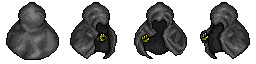
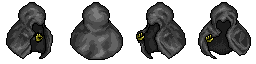
Added Uniball creature

Changed region(s): [[0.2812, 0.125, 1.0, 0.9375], [0.0312, 0.125, 0.25, 0.9375]]

diff --git a/src/creature.c b/src/creature.c
@@ -42,6 +42,7 @@ static int creature_image_watcher;
 static int creature_image_golem;
 static int creature_image_phantom;
 static int creature_image_rock;
+static int creature_image_uniball;
 
 static void creature_update_slug(Creature* c, float dt);
 static void creature_update_clinger(Creature* c, float dt);
@@ -66,6 +67,7 @@ static void creature_update_watcher(Creature* c, float dt);
 static void creature_update_golem(Creature* c, float dt);
 static void creature_update_phantom(Creature* c, float dt);
 static void creature_update_rock(Creature* c, float dt);
+static void creature_update_uniball(Creature* c, float dt);
 
 static void creature_fire_projectile(Creature* c, float angle);
 
@@ -105,6 +107,7 @@ void creature_init()
     creature_image_golem = gfx_load_image("src/img/creature_infected.png", false, false, 32, 32);   //TEMP
     creature_image_phantom = gfx_load_image("src/img/creature_phantom.png", false, false, 64, 64);
     creature_image_rock = gfx_load_image("src/img/rock1.png", false, false, 32, 32);
+    creature_image_uniball = gfx_load_image("src/img/creature_uniball.png", false, false, 32, 32);
 }
 
 char* creature_type_name(CreatureType type)
@@ -159,6 +162,8 @@ char* creature_type_name(CreatureType type)
             return "Rock Monster";
         case CREATURE_TYPE_ROCK:
             return "Rock";
+        case CREATURE_TYPE_UNIBALL:
+            return "Uniball";
         default:
             return "???";
     }
@@ -215,6 +220,8 @@ int creature_get_image(CreatureType type)
         case CREATURE_TYPE_ROCK_MONSTER:
         case CREATURE_TYPE_ROCK:
             return creature_image_rock;
+        case CREATURE_TYPE_UNIBALL:
+            return creature_image_uniball;
         default:
             return -1;
     }
@@ -309,6 +316,7 @@ void creature_init_props(Creature* c)
             c->phys.base_friction = 1.0;
             c->phys.hp_max = 2.0;
             c->phys.floating = true;
+            c->phys.bobbing = true;
             c->painful_touch = true;
             c->xp = 10;
         } break;
@@ -322,6 +330,7 @@ void creature_init_props(Creature* c)
             c->phys.base_friction = 0.0;
             c->phys.elasticity = 1.0;
             c->phys.floating = true;
+            c->phys.bobbing = true;
             c->painful_touch = true;
             c->xp = 20;
         } break;
@@ -334,6 +343,7 @@ void creature_init_props(Creature* c)
             c->phys.base_friction = 10.0;
             c->phys.hp_max = 2.0;
             c->phys.floating = true;
+            c->phys.bobbing = true;
             c->painful_touch = true;
             c->windup_max = 0.5;
             c->xp = 40;
@@ -391,6 +401,7 @@ void creature_init_props(Creature* c)
             c->phys.base_friction = 15.0;
             c->phys.hp_max = 20.0;
             c->phys.floating = true;
+            c->phys.bobbing = true;
             c->painful_touch = true;
             c->windup_max = 0.5;
             c->xp = 300;
@@ -523,6 +534,7 @@ void creature_init_props(Creature* c)
             c->phys.base_friction = 15.0;
             c->phys.hp_max = 7.0;
             c->phys.floating = true;
+            c->phys.bobbing = true;
             c->painful_touch = true;
             c->windup_max = 0.5;
             c->xp = 80;
@@ -553,6 +565,7 @@ void creature_init_props(Creature* c)
             c->painful_touch = true;
             c->passive = true;
             c->phys.floating = true;
+            c->phys.bobbing = true;
             c->xp = 1000;
             c->damage = 127;
         } break;
@@ -571,6 +584,25 @@ void creature_init_props(Creature* c)
             c->xp = 20;
             c->damage = 0;
             c->phys.crawling = true;
+        } break;
+        case CREATURE_TYPE_UNIBALL:
+        {
+            c->phys.speed = 100.0;
+            c->act_time_min = 0.5;
+            c->act_time_max = 2.0;
+            c->phys.mass = 10000.0;
+            c->phys.base_friction = 0.0;
+            c->phys.hp_max = 1.0;
+            c->phys.elasticity = 1.0;
+            c->phys.ethereal = false;
+            c->painful_touch = true;
+            c->phys.radius = 0.5*MAX(c->phys.width,c->phys.height);
+            c->phys.crawling = false;
+            c->phys.floating = true;
+            c->phys.bobbing = false;
+            c->passive = false;
+            c->invincible = true;
+            c->xp = 15;
         } break;
     }
 
@@ -827,7 +859,7 @@ void creature_update(Creature* c, float dt)
 
     phys_add_circular_time(&c->phys, dt);
 
-    if(c->phys.floating)
+    if(c->phys.floating && c->phys.bobbing)
     {
         c->phys.pos.z = c->phys.height/2.0 + 10.0 + 3*sinf(5*c->phys.circular_dt);
     }
@@ -907,6 +939,9 @@ void creature_update(Creature* c, float dt)
             case CREATURE_TYPE_ROCK_MONSTER:
             case CREATURE_TYPE_ROCK:
                 creature_update_rock(c,dt);
+                break;
+            case CREATURE_TYPE_UNIBALL:
+                creature_update_uniball(c,dt);
                 break;
         }
     }
@@ -1232,7 +1267,7 @@ uint16_t creature_get_room_count(uint8_t room_index, bool count_passive)
         {
             if(count_passive)
                 count++;
-            else if(!creatures[i].passive && !creatures[i].invincible)
+            else if(!creatures[i].passive)
                 count++;
         }
     }
@@ -2657,5 +2692,27 @@ static void creature_update_rock(Creature* c, float dt)
             c->h = v.x;
             c->v = v.y;
         }
+    }
+}
+
+static void creature_update_uniball(Creature* c, float dt)
+{
+    printf("creature rot deg: %f, vel: %f %f\n", c->phys.rotation_deg, c->phys.vel.x, c->phys.vel.y);
+
+    if(c->phys.rotation_deg == 0.0 && c->phys.vel.x == 0.0)
+    {
+        c->phys.vel.x = c->phys.speed;
+    }
+    else if(c->phys.rotation_deg == 90.0 && c->phys.vel.y == 0.0)
+    {
+        c->phys.vel.y = -c->phys.speed;
+    }
+    else if(c->phys.rotation_deg == 180.0 && c->phys.vel.x == 0.0)
+    {
+        c->phys.vel.x = -c->phys.speed;
+    }
+    else if(c->phys.rotation_deg == 270.0 && c->phys.vel.y == 0.0)
+    {
+        c->phys.vel.y = c->phys.speed;
     }
 }

diff --git a/src/level.c b/src/level.c
@@ -513,9 +513,10 @@ void level_place_entities(Level* level)
                         if(ori == 1) c->phys.rotation_deg = 90.0;
                         else if(ori == 2) c->phys.rotation_deg = 180.0;
                         else if(ori == 3) c->phys.rotation_deg = 270.0;
-                        // printf("set the rotation to %.2f\n", c->phys.rotation_deg);
-                        // printf("  room %s\n", room_files[room_list[room->layout].file_index]);
-                        // printf("  %s\n", creature_type_name(c->type));
+
+                        printf("set the rotation to %.2f\n", c->phys.rotation_deg);
+                        printf("  room %s\n", room_files[room_list[room->layout].file_index]);
+                        printf("  %s\n", creature_type_name(c->type));
                     }
                 }
             }

diff --git a/src/room_editor.c b/src/room_editor.c
@@ -1021,10 +1021,10 @@ static float get_orientation_deg(int _orientation)
 
 static const char* get_orientation_str(int _orientation)
 {
-    if(_orientation == 0) return "^";
-    else if(_orientation == 1) return "<";
-    else if(_orientation == 2) return "v";
-    return ">";
+    if(_orientation == 0) return ">";
+    else if(_orientation == 1) return "^";
+    else if(_orientation == 2) return "<";
+    return "v";
 }
 
 // returns true is number of doors is 0 or 1

diff --git a/src/ai.h b/src/ai.h
@@ -3,13 +3,15 @@
 static float sprite_index_to_angle(Creature* c)
 {
     if(c->sprite_index == 0)
-        return 90.0;
-    else if(c->sprite_index == 1)
         return 0.0;
-    else if(c->sprite_index == 2)
-        return 270.0;
 
-    return 180.0;
+    if(c->sprite_index == 1)
+        return 90.0;
+
+    if(c->sprite_index == 2)
+        return 180.0;
+
+    return 270.0;
 }
 
 static void creature_set_sprite_index(Creature* c, int sprite_index)

diff --git a/src/physics.c b/src/physics.c
@@ -43,7 +43,7 @@ void phys_collision_correct(Physics* phys1, Physics* phys2, CollisionInfo* ci)
     // collision correct
     float cratio = phys2->mass/(phys1->mass+phys2->mass);
 
-    if(phys2->mass > 100.0*phys1->mass)
+    if(phys2->mass > 10.0*phys1->mass)
         cratio = 1.0; // mass is sufficiently large to not move at all
 
     float c1x = phys1->collision_rect.x - ci->overlap.x*cratio;

diff --git a/src/creature.h b/src/creature.h
@@ -36,6 +36,7 @@ typedef enum
     CREATURE_TYPE_PHANTOM,
     CREATURE_TYPE_ROCK_MONSTER,
     CREATURE_TYPE_ROCK,
+    CREATURE_TYPE_UNIBALL,
     CREATURE_TYPE_MAX,
 } CreatureType;
 

diff --git a/src/physics.h b/src/physics.h
@@ -59,6 +59,7 @@ typedef struct
     bool falling; // falling down a pit
 
     bool floating;
+    bool bobbing;
     bool crawling;
     bool underground; // doesn't interact
 
